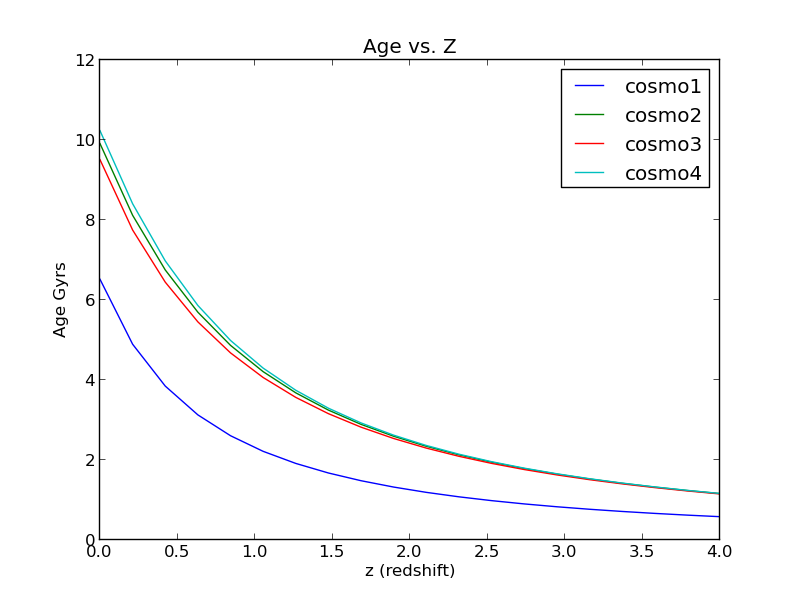
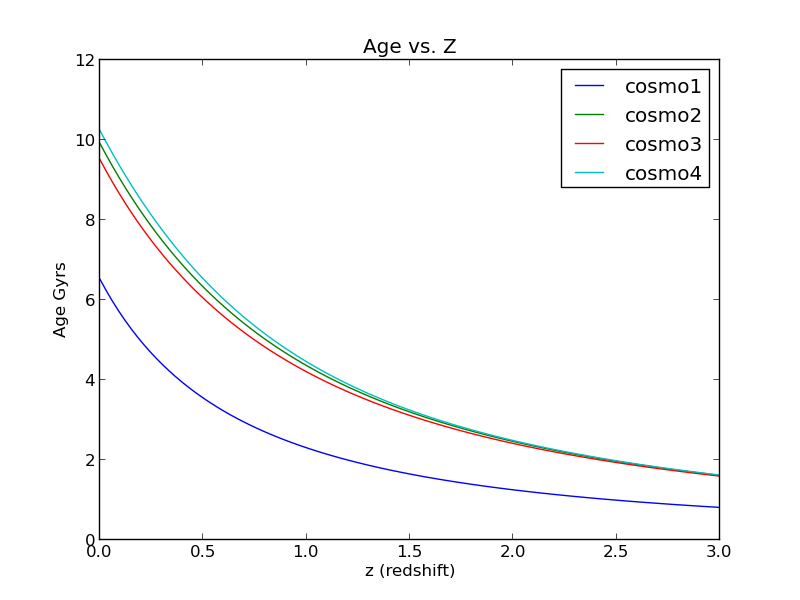
adding corrected hw4 plots

diff --git a/HW4Codes/LSS_HW3_Cosmological_Params.py b/HW4Codes/LSS_HW3_Cosmological_Params.py
@@ -51,8 +51,10 @@ print
 print "Setting Date String"
 datestring = "Apr11"
 
-num_z_points = 20
-redshifts = np.linspace(0, 4, num=num_z_points)
+num_z_points = 100
+redshift_max = 3
+redshift_min = 0
+redshifts = np.linspace(redshift_min, redshift_max, num=num_z_points)
 
 
 # h, Om, Oa, w 
